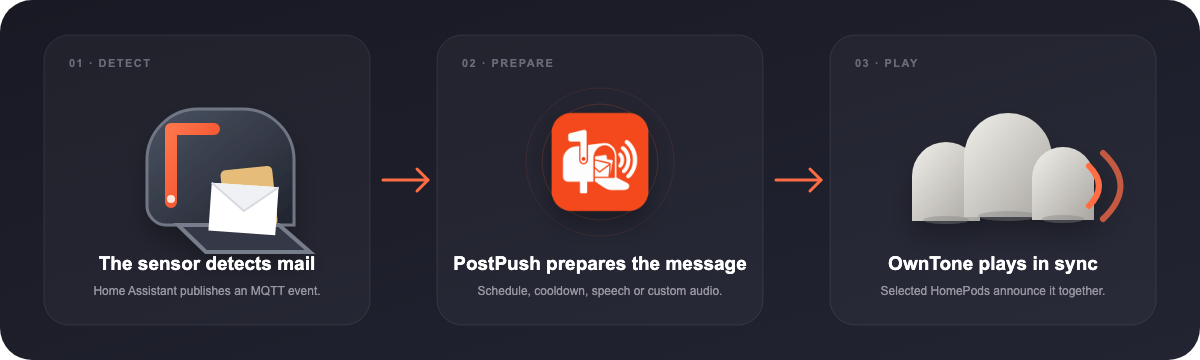
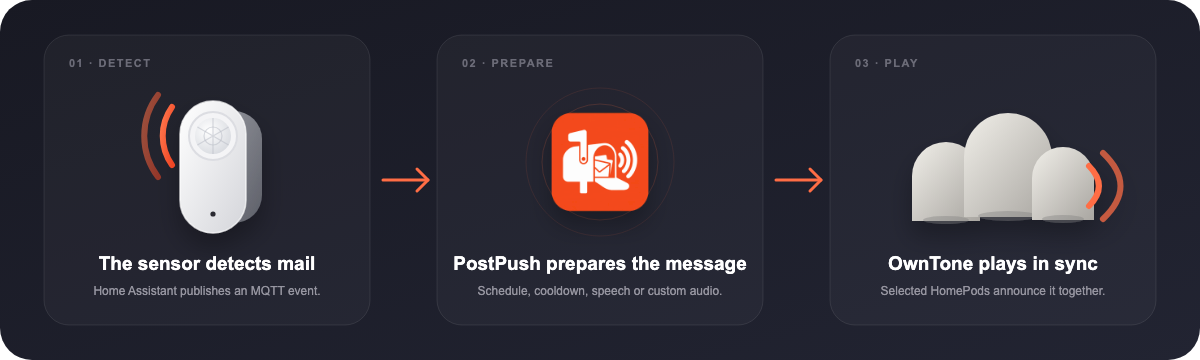
Show the mailbox sensor and document the reference hardware
Replace the mailbox illustration in the flow graphic and on the website
with a stylized Zigbee motion sensor, list the hardware PostPush is
tested with in the README, and offer the Runtipi description in English
and German.

Changed region(s): [[0.0925, 0.2444, 0.2775, 0.7028]]

diff --git a/website/index.html b/website/index.html
@@ -277,7 +277,7 @@
             <p data-en="PostPush connects the services already running at home and keeps the complete flow inside the local network." data-de="PostPush verbindet die bereits vorhandenen Dienste und hält den gesamten Ablauf im lokalen Netzwerk.">PostPush connects the services already running at home and keeps the complete flow inside the local network.</p>
           </div>
           <div class="process-grid">
-            <article class="process-card reveal"><span class="process-index">01</span><div class="process-visual ring-visual"><span class="mailbox-device"><i></i></span></div><h3 data-en="The sensor detects mail" data-de="Der Sensor erkennt Post">The sensor detects mail</h3><p data-en="Home Assistant publishes a non-retained event to the configured MQTT topic." data-de="Home Assistant veröffentlicht ein nicht gespeichertes Ereignis im konfigurierten MQTT-Topic.">Home Assistant publishes a non-retained event to the configured MQTT topic.</p></article>
+            <article class="process-card reveal"><span class="process-index">01</span><div class="process-visual sensor-visual"><svg class="sensor-device" viewBox="90 58 124 150" aria-hidden="true"><defs><linearGradient id="ws-sensor" x1="0" y1="0" x2="1" y2="1"><stop stop-color="#fff"/><stop offset="1" stop-color="#d4d5da"/></linearGradient><linearGradient id="ws-bracket" x1="0" y1="0" x2="1" y2="1"><stop stop-color="#9a9ca4"/><stop offset="1" stop-color="#5d5f68"/></linearGradient><radialGradient id="ws-lens" cx=".38" cy=".35" r=".8"><stop stop-color="#fff"/><stop offset="1" stop-color="#d3d6dc"/></radialGradient><linearGradient id="ws-wave" x1="0" y1="0" x2="1" y2="1"><stop stop-color="#ff754b"/><stop offset="1" stop-color="#ef4625"/></linearGradient></defs><rect x="150" y="80" width="56" height="112" rx="28" fill="url(#ws-bracket)"/><rect x="124" y="70" width="66" height="132" rx="33" fill="url(#ws-sensor)" stroke="#fff" stroke-opacity=".7" stroke-width="1.5"/><circle cx="157" cy="105" r="24" fill="#f4f4f6" stroke="#dcdde2" stroke-width="2"/><circle cx="157" cy="105" r="18" fill="url(#ws-lens)"/><g fill="none" stroke="#b9bdc6" stroke-opacity=".55" stroke-width="1.2"><path d="M157 87v36M141.4 96l31.2 18M141.4 114l31.2-18"/><circle cx="157" cy="105" r="9"/></g><circle cx="157" cy="183" r="2.6" fill="#2a2b31"/><g class="sensor-waves" fill="none" stroke="url(#ws-wave)" stroke-width="6" stroke-linecap="round"><path d="M116 76a50 50 0 0 0 0 58"/><path d="M102 64a68 68 0 0 0 0 82" opacity=".55"/></g></svg></div><h3 data-en="The sensor detects mail" data-de="Der Sensor erkennt Post">The sensor detects mail</h3><p data-en="Home Assistant publishes a non-retained event to the configured MQTT topic." data-de="Home Assistant veröffentlicht ein nicht gespeichertes Ereignis im konfigurierten MQTT-Topic.">Home Assistant publishes a non-retained event to the configured MQTT topic.</p></article>
             <span class="process-arrow" aria-hidden="true"><svg viewBox="0 0 24 24"><path d="M5 12h14M13 6l6 6-6 6"/></svg></span>
             <article class="process-card reveal"><span class="process-index">02</span><div class="process-visual bridge-visual"><img src="assets/postpush-icon.png" alt=""><span></span><span></span></div><h3 data-en="PostPush prepares the message" data-de="PostPush bereitet die Ansage vor">PostPush prepares the message</h3><p data-en="It checks the schedule and cooldown, then uses local speech or the uploaded audio file." data-de="PostPush prüft Zeitplan und Sperrzeit und nutzt dann lokale Sprache oder die hochgeladene Audiodatei.">It checks the schedule and cooldown, then uses local speech or the uploaded audio file.</p></article>
             <span class="process-arrow" aria-hidden="true"><svg viewBox="0 0 24 24"><path d="M5 12h14M13 6l6 6-6 6"/></svg></span>

diff --git a/website/styles.css b/website/styles.css
@@ -146,10 +146,7 @@ svg { fill: none; stroke: currentColor; stroke-linecap: round; stroke-linejoin: 
 .process-card p { margin: 0; color: #8d8c98; font-size: 10px; line-height: 1.65; }
 .process-arrow { display: grid; place-items: center; color: #5b5965; }
 .process-arrow svg { width: 24px; }
-.mailbox-device { position: relative; width: 112px; height: 82px; border: 3px solid #6f7480; border-radius: 43px 43px 15px 15px; background: linear-gradient(145deg,#454b5a,#20242e); box-shadow: 0 17px 30px rgba(0,0,0,.28); }
-.mailbox-device::before { content: ""; position: absolute; width: 16px; height: 68px; left: 18px; top: -31px; border-radius: 8px; background: linear-gradient(180deg,#ff7049,#ea4825); box-shadow: 0 8px 16px rgba(234,72,37,.22); }
-.mailbox-device::after { content: ""; position: absolute; width: 44px; height: 16px; left: 18px; top: -31px; border-radius: 8px 8px 8px 3px; background: #ff7049; }
-.mailbox-device i { position: absolute; width: 60px; height: 38px; left: 50%; bottom: -22px; border: 3px solid #767c89; border-radius: 7px 7px 24px 24px; background: linear-gradient(165deg,#505665,#262b35); translate: -50%; transform: perspective(120px) rotateX(48deg); transform-origin: top; }
+.sensor-device { width: 104px; height: 126px; translate: 6px 4px; overflow: visible; filter: drop-shadow(0 17px 24px rgba(0,0,0,.3)); }
 .bridge-visual img { position: relative; z-index: 2; width: 77px; border-radius: 23px; box-shadow: 0 15px 35px rgba(235,73,31,.27); }
 .bridge-visual span { position: absolute; width: 112px; height: 112px; border: 1px solid rgba(255,101,55,.2); border-radius: 50%; }
 .bridge-visual span:last-child { width: 151px; height: 151px; border-color: rgba(255,101,55,.08); }

diff --git a/test/website.test.js b/test/website.test.js
@@ -134,7 +134,7 @@ test("GitHub artwork uses the real logo and renders to stable PNGs", async () =>
   assert.equal(flowPng.readUInt32BE(20), 360);
 });
 
-test("public Runtipi metadata is written in English", async () => {
+test("public Runtipi metadata is offered in English and German", async () => {
   const [configSource, description] = await Promise.all([
     read("apps/postpush/config.json"),
     read("apps/postpush/metadata/description.md"),
@@ -144,5 +144,6 @@ test("public Runtipi metadata is written in English", async () => {
   assert.equal(config.tipi_version, 15);
   assert.equal(config.form_fields[0].label, "MQTT broker");
   assert.match(description, /PostPush announces new mail/);
-  assert.doesNotMatch(description, /PostPush meldet/);
+  assert.match(description, /## Deutsch/);
+  assert.match(description, /PostPush kündigt neue Post/);
 });

diff --git a/apps/postpush/metadata/description.md b/apps/postpush/metadata/description.md
@@ -1,5 +1,7 @@
 # PostPush
 
+**English** · Deutsch weiter unten
+
 PostPush announces new mail on selected HomePods and AirPlay speakers.
 
 - receives mailbox events from Home Assistant through MQTT
@@ -9,3 +11,21 @@ PostPush announces new mail on selected HomePods and AirPlay speakers.
 - keeps speech, audio, event data, and settings on the local server
 
 The current Runtipi package reuses the OwnTone service from **Ring HomePod Doorbell**, which must run on the same Runtipi host. This avoids a conflicting second mDNS stack. The server and speakers must be reachable on the same network, and Apple Home must allow speaker access for **Anyone On the Same Network**.
+
+**Tested with:** HOBEIAN ZG-204ZL Zigbee motion sensor in the mailbox, Zigbee2MQTT, Mosquitto, Home Assistant, and HomePods on HomePod OS 27.
+
+---
+
+## Deutsch
+
+PostPush kündigt neue Post auf ausgewählten HomePods und AirPlay-Lautsprechern an.
+
+- empfängt Briefkasten-Ereignisse von Home Assistant über MQTT
+- erzeugt eine frei wählbare Ansage lokal mit Piper oder spielt eine hochgeladene Audiodatei ab
+- spielt synchron auf allen oder ausgewählten AirPlay-Lautsprechern
+- bietet Hauptschalter, aktive Zeiten, Lautstärke und eine Sperrzeit gegen doppelte Ereignisse
+- Sprache, Audio, Ereignisdaten und Einstellungen bleiben auf dem lokalen Server
+
+Das aktuelle Runtipi-Paket nutzt den OwnTone-Dienst von **Ring HomePod Doorbell** mit, der auf demselben Runtipi-Host laufen muss. So entsteht kein zweiter, konkurrierender mDNS-Stack. Server und Lautsprecher müssen im selben Netzwerk erreichbar sein, und in Apple Home muss der Lautsprecherzugriff auf **Alle im selben Netzwerk** stehen.
+
+**Getestet mit:** HOBEIAN ZG-204ZL Zigbee-Bewegungsmelder im Briefkasten, Zigbee2MQTT, Mosquitto, Home Assistant und HomePods mit HomePod OS 27.

diff --git a/runtipi/metadata/description.md b/runtipi/metadata/description.md
@@ -1,5 +1,7 @@
 # PostPush
 
+**English** · Deutsch weiter unten
+
 PostPush announces new mail on selected HomePods and AirPlay speakers.
 
 - receives mailbox events from Home Assistant through MQTT
@@ -9,3 +11,21 @@ PostPush announces new mail on selected HomePods and AirPlay speakers.
 - keeps speech, audio, event data, and settings on the local server
 
 The current Runtipi package reuses the OwnTone service from **Ring HomePod Doorbell**, which must run on the same Runtipi host. This avoids a conflicting second mDNS stack. The server and speakers must be reachable on the same network, and Apple Home must allow speaker access for **Anyone On the Same Network**.
+
+**Tested with:** HOBEIAN ZG-204ZL Zigbee motion sensor in the mailbox, Zigbee2MQTT, Mosquitto, Home Assistant, and HomePods on HomePod OS 27.
+
+---
+
+## Deutsch
+
+PostPush kündigt neue Post auf ausgewählten HomePods und AirPlay-Lautsprechern an.
+
+- empfängt Briefkasten-Ereignisse von Home Assistant über MQTT
+- erzeugt eine frei wählbare Ansage lokal mit Piper oder spielt eine hochgeladene Audiodatei ab
+- spielt synchron auf allen oder ausgewählten AirPlay-Lautsprechern
+- bietet Hauptschalter, aktive Zeiten, Lautstärke und eine Sperrzeit gegen doppelte Ereignisse
+- Sprache, Audio, Ereignisdaten und Einstellungen bleiben auf dem lokalen Server
+
+Das aktuelle Runtipi-Paket nutzt den OwnTone-Dienst von **Ring HomePod Doorbell** mit, der auf demselben Runtipi-Host laufen muss. So entsteht kein zweiter, konkurrierender mDNS-Stack. Server und Lautsprecher müssen im selben Netzwerk erreichbar sein, und in Apple Home muss der Lautsprecherzugriff auf **Alle im selben Netzwerk** stehen.
+
+**Getestet mit:** HOBEIAN ZG-204ZL Zigbee-Bewegungsmelder im Briefkasten, Zigbee2MQTT, Mosquitto, Home Assistant und HomePods mit HomePod OS 27.

diff --git a/README.md b/README.md
@@ -70,6 +70,26 @@ Runtipi host. PostPush deliberately reuses its OwnTone service to avoid two
 conflicting mDNS stacks. The standalone Docker Compose setup includes its own
 OwnTone service and does not require the DoorBell app.
 
+## Reference hardware
+
+PostPush works with any sensor that Home Assistant can turn into an MQTT event.
+This is the setup it is developed and tested with:
+
+| Part | Model | Role |
+|---|---|---|
+| Mailbox sensor | HOBEIAN ZG-204ZL (Zigbee PIR motion and light sensor, battery powered) | Mounted inside the mailbox; detects the flap or a letter dropping in |
+| Zigbee coordinator | SONOFF Zigbee 3.0 USB Dongle Plus (Z-Stack) | Connects the sensor to Zigbee2MQTT |
+| Zigbee bridge | Zigbee2MQTT 2.14 on a Raspberry Pi | Publishes the sensor state to MQTT |
+| MQTT broker | Eclipse Mosquitto | Shared by Zigbee2MQTT, Home Assistant, and PostPush |
+| Automation | Home Assistant | Sends the PostPush MQTT event when the sensor turns on |
+| Server | x86-64 Linux host with Runtipi | Runs PostPush and OwnTone |
+| Speakers | Apple HomePods (HomePod OS 27) | Play the announcement over AirPlay 2 |
+
+The reference sensor runs with `sensitivity: high` and `keep_time: 30` in
+Zigbee2MQTT. Its occupancy entity
+(`binary_sensor.<device>_occupancy`) is the trigger in the Home Assistant
+automation below.
+
 ## Install on Runtipi
 
 This repository is also a custom Runtipi app store. In Runtipi, open
